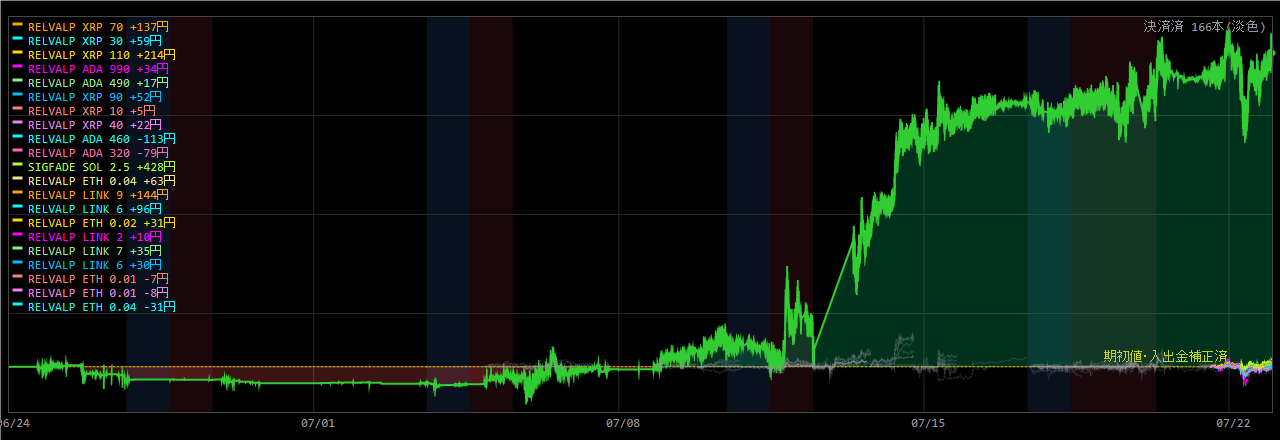
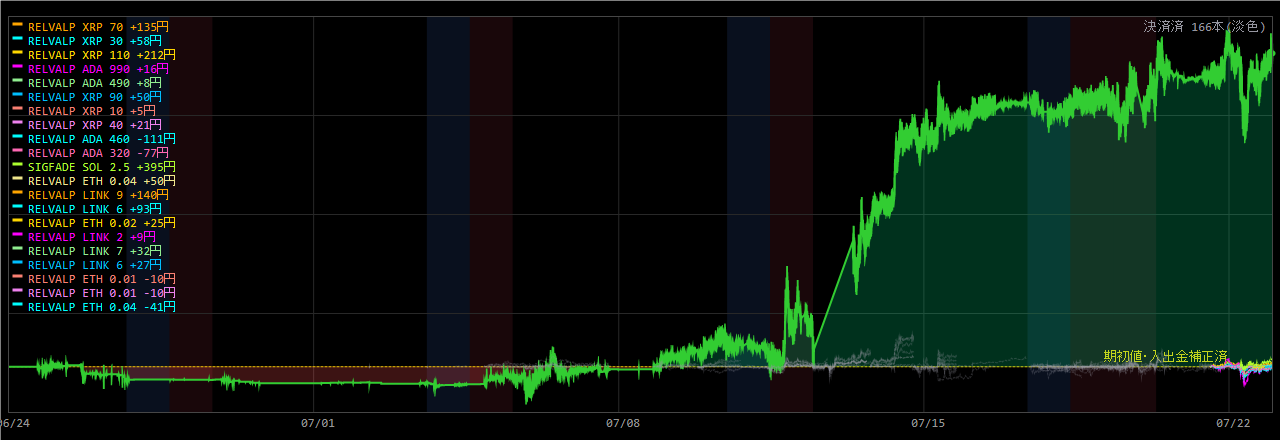
Coin100S 運用状況更新 07-23 17:11

diff --git a/coin100s-795hc4jfv8/index.html b/coin100s-795hc4jfv8/index.html
@@ -14,16 +14,16 @@ a{color:#60a5fa;text-decoration:none} a:hover{text-decoration:underline}
 .meta{color:#94a3b8;font-size:13px}</style>
 <script>setTimeout(function(){location.replace(location.pathname+"?t="+Date.now());},300000);</script></head><body>
 <h1>Coin100S ダッシュボード</h1>
-<p class="meta">スナップショット: 2026-07-23 17:05:07(自動リロード・最新化)</p>
+<p class="meta">スナップショット: 2026-07-23 17:10:37(自動リロード・最新化)</p>
 <div class="cards">
 <div class="card">建玉数<div class="v">21</div></div>
 <div class="card">本日損益<div class="v neg">-88円</div></div>
-<div class="card">評価損益<div class="v pos">+1,040円</div></div>
+<div class="card">評価損益<div class="v pos">+1,011円</div></div>
 </div>
 <h2>現在の建玉</h2>
-<table><tr><th>銘柄</th><th>側</th><th>数量</th><th>建値</th><th>含損益</th><th>レッグ</th></tr><tr><td>ADA_JPY</td><td>SELL</td><td>320</td><td>@28</td><td>-83円</td><td>RELVALP_SL700</td></tr><tr><td>ADA_JPY</td><td>SELL</td><td>460</td><td>@28</td><td>-119円</td><td>RELVALP_SELL</td></tr><tr><td>ADA_JPY</td><td>SELL</td><td>490</td><td>@28</td><td>0円</td><td>RELVALP_SL700</td></tr><tr><td>ADA_JPY</td><td>SELL</td><td>990</td><td>@28</td><td>+1円</td><td>RELVALP_SELL</td></tr><tr><td>ETH_JPY</td><td>SELL</td><td>0.04</td><td>@312,191</td><td>-33円</td><td>RELVALP_SELL</td></tr><tr><td>ETH_JPY</td><td>SELL</td><td>0.01</td><td>@312,191</td><td>-9円</td><td>RELVALP_SELL</td></tr><tr><td>ETH_JPY</td><td>SELL</td><td>0.01</td><td>@312,216</td><td>-8円</td><td>RELVALP_SELL</td></tr><tr><td>ETH_JPY</td><td>SELL</td><td>0.02</td><td>@314,458</td><td>+28円</td><td>RELVALP_SL700</td></tr><tr><td>ETH_JPY</td><td>SELL</td><td>0.04</td><td>@314,458</td><td>+57円</td><td>RELVALP_SELL</td></tr><tr><td>LINK_JPY</td><td>SELL</td><td>6</td><td>@1,398</td><td>+36円</td><td>RELVALP_SL700</td></tr><tr><td>LINK_JPY</td><td>SELL</td><td>7</td><td>@1,398</td><td>+42円</td><td>RELVALP_SELL</td></tr><tr><td>LINK_JPY</td><td>SELL</td><td>2</td><td>@1,398</td><td>+12円</td><td>RELVALP_SELL</td></tr><tr><td>LINK_JPY</td><td>SELL</td><td>6</td><td>@1,409</td><td>+102円</td><td>RELVALP_SL700</td></tr><tr><td>LINK_JPY</td><td>SELL</td><td>9</td><td>@1,409</td><td>+153円</td><td>RELVALP_SELL</td></tr><tr><td>SOL_JPY</td><td>SELL</td><td>2.5</td><td>@12,763</td><td>+400円</td><td>SIGFADE_SOL</td></tr><tr><td>XRP_JPY</td><td>SELL</td><td>40</td><td>@186</td><td>+20円</td><td>RELVALP_SL700</td></tr><tr><td>XRP_JPY</td><td>SELL</td><td>10</td><td>@186</td><td>+5円</td><td>RELVALP_SELL</td></tr><tr><td>XRP_JPY</td><td>SELL</td><td>90</td><td>@186</td><td>+48円</td><td>RELVALP_SELL</td></tr><tr><td>XRP_JPY</td><td>SELL</td><td>110</td><td>@187</td><td>+209円</td><td>RELVALP_SELL</td></tr><tr><td>XRP_JPY</td><td>SELL</td><td>30</td><td>@187</td><td>+57円</td><td>RELVALP_SELL</td></tr><tr><td>XRP_JPY</td><td>SELL</td><td>70</td><td>@187</td><td>+134円</td><td>RELVALP_SL700</td></tr></table>
+<table><tr><th>銘柄</th><th>側</th><th>数量</th><th>建値</th><th>含損益</th><th>レッグ</th></tr><tr><td>ADA_JPY</td><td>SELL</td><td>320</td><td>@28</td><td>-84円</td><td>RELVALP_SL700</td></tr><tr><td>ADA_JPY</td><td>SELL</td><td>460</td><td>@28</td><td>-121円</td><td>RELVALP_SELL</td></tr><tr><td>ADA_JPY</td><td>SELL</td><td>490</td><td>@28</td><td>-1円</td><td>RELVALP_SL700</td></tr><tr><td>ADA_JPY</td><td>SELL</td><td>990</td><td>@28</td><td>-2円</td><td>RELVALP_SELL</td></tr><tr><td>ETH_JPY</td><td>SELL</td><td>0.04</td><td>@312,191</td><td>-45円</td><td>RELVALP_SELL</td></tr><tr><td>ETH_JPY</td><td>SELL</td><td>0.01</td><td>@312,191</td><td>-12円</td><td>RELVALP_SELL</td></tr><tr><td>ETH_JPY</td><td>SELL</td><td>0.01</td><td>@312,216</td><td>-11円</td><td>RELVALP_SELL</td></tr><tr><td>ETH_JPY</td><td>SELL</td><td>0.02</td><td>@314,458</td><td>+23円</td><td>RELVALP_SL700</td></tr><tr><td>ETH_JPY</td><td>SELL</td><td>0.04</td><td>@314,458</td><td>+46円</td><td>RELVALP_SELL</td></tr><tr><td>LINK_JPY</td><td>SELL</td><td>6</td><td>@1,398</td><td>+36円</td><td>RELVALP_SL700</td></tr><tr><td>LINK_JPY</td><td>SELL</td><td>7</td><td>@1,398</td><td>+42円</td><td>RELVALP_SELL</td></tr><tr><td>LINK_JPY</td><td>SELL</td><td>2</td><td>@1,398</td><td>+12円</td><td>RELVALP_SELL</td></tr><tr><td>LINK_JPY</td><td>SELL</td><td>6</td><td>@1,409</td><td>+102円</td><td>RELVALP_SL700</td></tr><tr><td>LINK_JPY</td><td>SELL</td><td>9</td><td>@1,409</td><td>+153円</td><td>RELVALP_SELL</td></tr><tr><td>SOL_JPY</td><td>SELL</td><td>2.5</td><td>@12,763</td><td>+400円</td><td>SIGFADE_SOL</td></tr><tr><td>XRP_JPY</td><td>SELL</td><td>40</td><td>@186</td><td>+20円</td><td>RELVALP_SL700</td></tr><tr><td>XRP_JPY</td><td>SELL</td><td>10</td><td>@186</td><td>+5円</td><td>RELVALP_SELL</td></tr><tr><td>XRP_JPY</td><td>SELL</td><td>90</td><td>@186</td><td>+48円</td><td>RELVALP_SELL</td></tr><tr><td>XRP_JPY</td><td>SELL</td><td>110</td><td>@187</td><td>+209円</td><td>RELVALP_SELL</td></tr><tr><td>XRP_JPY</td><td>SELL</td><td>30</td><td>@187</td><td>+57円</td><td>RELVALP_SELL</td></tr><tr><td>XRP_JPY</td><td>SELL</td><td>70</td><td>@187</td><td>+134円</td><td>RELVALP_SL700</td></tr></table>
 <p><a href="status.html"><b>▶ 運用状況の詳細(チャート・本日の取引・レジーム)</b></a></p>
 <h2>日報一覧</h2>
 <table><tr><th>取引日</th><th>実現損益</th><th>総括</th></tr><tr><td><a href='reports/20260722_Coin100S日報.html'>2026-07-22</a></td><td class="pos">+0円</td><td class='meta'>実取引: 新規10件/決済5件、実現損益 +0円。シグナル却下1件（最多: BW10M3_5M／トレンド方向ゲート(N分傾き下と不一致=逆張り方向のfade禁止)）。⚠警告/エラー 9件（要確認）。</td></tr><tr><td><a href='reports/20260721_Coin100S日報.html'>2026-07-21</a></td><td class="pos">+0円</td><td class='meta'>実取引: 新規4件/決済13件、実現損益 +0円。⚠警告/エラー 13件（要確認）。</td></tr><tr><td><a href='reports/20260720_Coin100S日報.html'>2026-07-20</a></td><td class="pos">+0円</td><td class='meta'>実取引: 新規8件/決済21件、実現損益 +0円。シグナル却下8件（最多: BW10M3_5M／トレンド方向ゲート(N分傾き上と不一致=逆張り方向のfade禁止)）。⚠警告/エラー 13件（要確認）。</td></tr><tr><td><a href='reports/20260719_Coin100S日報.html'>2026-07-19</a></td><td class="pos">+0円</td><td class='meta'>実取引: 新規10件/決済7件、実現損益 +0円。⚠警告/エラー 3件（要確認）。</td></tr><tr><td><a href='reports/20260718_Coin100S日報.html'>2026-07-18</a></td><td class="pos">+0円</td><td class='meta'>実取引: 新規9件/決済8件、実現損益 +0円。警告/孤児/エラーなし＝健全。</td></tr><tr><td><a href='reports/20260717_Coin100S日報.html'>2026-07-17</a></td><td class="pos">+0円</td><td class='meta'>実取引: 新規3件/決済2件、実現損益 +0円。シグナル却下1件（最多: BW10M3_5M／トレンド方向ゲート(N分傾き下と不一致=逆張り方向のfade禁止)）。⚠警告/エラー 2件（要確認）。</td></tr><tr><td><a href='reports/20260716_Coin100S日報.html'>2026-07-16</a></td><td class="pos">+0円</td><td class='meta'>実取引: 新規0件/決済5件、実現損益 +0円。⚠警告/エラー 7件（要確認）。</td></tr><tr><td><a href='reports/20260715_Coin100S日報.html'>2026-07-15</a></td><td class="pos">+0円</td><td class='meta'>実取引: 新規6件/決済5件、実現損益 +0円。シグナル却下6件（最多: BW10M3_5M／トレンド方向ゲート(N分傾き上と不一致=逆張り方向のfade禁止)）。⚠警告/エラー 7件（要確認）。</td></tr><tr><td><a href='reports/20260714_Coin100S日報.html'>2026-07-14</a></td><td class="pos">+0円</td><td class='meta'>実取引: 新規6件/決済18件、実現損益 +0円。シグナル却下5件（最多: BW10M3_5M／トレンド方向ゲート(N分傾き上と不一致=逆張り方向のfade禁止)）。⚠警告/エラー 9件（要確認）。</td></tr><tr><td><a href='reports/20260713_Coin100S日報.html'>2026-07-13</a></td><td class="pos">+0円</td><td class='meta'>実取引: 新規5件/決済8件、実現損益 +0円。シグナル却下1件（最多: BW10M3_5M／トレンド方向ゲート(N分傾き上と不一致=逆張り方向のfade禁止)）。警告/孤児/エラーなし＝健全。</td></tr><tr><td><a href='reports/20260712_Coin100S日報.html'>2026-07-12</a></td><td class="pos">+0円</td><td class='meta'>実取引: 新規14件/決済6件、実現損益 +0円。シグナル却下5件（最多: BW10M3_5M／トレンド方向ゲート(N分傾き下と不一致=逆張り方向のfade禁止)）。⚠警告/エラー 2件（要確認）。</td></tr><tr><td><a href='reports/20260711_Coin100S日報.html'>2026-07-11</a></td><td class="pos">+0円</td><td class='meta'>実取引: 新規7件/決済6件、実現損益 +0円。⚠警告/エラー 52件（要確認）。</td></tr><tr><td><a href='reports/20260710_Coin100S日報.html'>2026-07-10</a></td><td class="pos">+0円</td><td class='meta'>実取引: 新規7件/決済6件、実現損益 +0円。シグナル却下6件（最多: BW10M3_5M／トレンド方向ゲート(N分傾き上と不一致=逆張り方向のfade禁止)）。警告/孤児/エラーなし＝健全。</td></tr><tr><td><a href='reports/20260709_Coin100S日報.html'>2026-07-09</a></td><td class="pos">+0円</td><td class='meta'>実取引: 新規8件/決済3件、実現損益 +0円。シグナル却下5件（最多: SD120M_5M／トレンド方向ゲート(N分傾き上と不一致=逆張り方向のfade禁止)）。警告/孤児/エラーなし＝健全。</td></tr><tr><td><a href='reports/20260708_Coin100S日報.html'>2026-07-08</a></td><td class="pos">+0円</td><td class='meta'>実取引: 新規2件/決済4件、実現損益 +0円。シグナル却下4件（最多: SD120M_5M／トレンド方向ゲート(N分傾き下と不一致=逆張り方向のfade禁止)）。警告/孤児/エラーなし＝健全。</td></tr><tr><td><a href='reports/20260707_Coin100S日報.html'>2026-07-07</a></td><td class="pos">+0円</td><td class='meta'>実取引: 新規8件/決済6件、実現損益 +0円。シグナル却下4件（最多: SD120M_5M／トレンド方向ゲート(N分傾き上と不一致=逆張り方向のfade禁止)）。⚠警告/エラー 258件（要確認）。</td></tr><tr><td><a href='reports/20260706_Coin100S日報.html'>2026-07-06</a></td><td class="pos">+0円</td><td class='meta'>実取引: 新規9件/決済6件、実現損益 +0円。シグナル却下9件（最多: SD120M_5M／トレンド方向ゲート(N分傾き上と不一致=逆張り方向のfade禁止)）。⚠警告/エラー 150件（要確認）。</td></tr><tr><td><a href='reports/20260705_Coin100S日報.html'>2026-07-05</a></td><td class="pos">+0円</td><td class='meta'>実取引: 新規8件/決済3件、実現損益 +0円。⚠警告/エラー 2件（要確認）。</td></tr><tr><td><a href='reports/20260704_Coin100S日報.html'>2026-07-04</a></td><td class="pos">+0円</td><td class='meta'>実取引: 新規1件/決済2件、実現損益 +0円。⚠警告/エラー 2件（要確認）。</td></tr><tr><td><a href='reports/20260703_Coin100S日報.html'>2026-07-03</a></td><td class="pos">+0円</td><td class='meta'>実取引: 新規5件/決済4件、実現損益 +0円。⚠警告/エラー 15件（要確認）。</td></tr><tr><td><a href='reports/20260702_Coin100S日報.html'>2026-07-02</a></td><td class="pos">+0円</td><td class='meta'>実取引: 新規7件/決済5件、実現損益 +0円。シグナル却下17件（最多: SD120M_5M／トレンド方向ゲート(N分傾き上と不一致=逆張り方向のfade禁止)）。⚠警告/エラー 26件（要確認）。</td></tr><tr><td><a href='reports/20260701_Coin100S日報.html'>2026-07-01</a></td><td class="pos">+0円</td><td class='meta'>実取引: 新規14件/決済8件、実現損益 +0円。シグナル却下14件（最多: SD120M_5M／ボラ軸ゲート(SDN%&amp;gt;N%=高ボラ/荒れレンジ)）。⚠警告/エラー 2件（要確認）。</td></tr><tr><td><a href='reports/20260630_Coin100S日報.html'>2026-06-30</a></td><td class="pos">+0円</td><td class='meta'>実取引: 新規0件/決済1件、実現損益 +0円。シグナル却下29件（最多: 微5M／当日枠N）。警告/孤児/エラーなし＝健全。</td></tr></table>
-<hr><p class="meta">更新: 2026-07-23 17:05:07 / 自動生成: tools/web_publish.py(§580)</p>
+<hr><p class="meta">更新: 2026-07-23 17:11:06 / 自動生成: tools/web_publish.py(§580)</p>
 </body></html>

diff --git a/coin100s-795hc4jfv8/status.html b/coin100s-795hc4jfv8/status.html
@@ -14,22 +14,22 @@ a{color:#60a5fa;text-decoration:none} a:hover{text-decoration:underline}
 .meta{color:#94a3b8;font-size:13px}</style>
 <script>setTimeout(function(){location.replace(location.pathname+"?t="+Date.now());},300000);</script></head><body>
 <h1>Coin100S 運用状況</h1>
-<p class="meta">スナップショット: 2026-07-23 17:04:37 / ページ生成: 2026-07-23 17:05:07(自動リロード・最新化) / <a href="index.html">目次へ</a></p>
+<p class="meta">スナップショット: 2026-07-23 17:10:37 / ページ生成: 2026-07-23 17:11:06(自動リロード・最新化) / <a href="index.html">目次へ</a></p>
 <div class="cards">
 <div class="card">建玉数<div class="v">21</div></div>
 <div class="card">本日損益<div class="v neg">-88円</div></div>
-<div class="card">評価損益<div class="v pos">+1,084円</div></div>
+<div class="card">評価損益<div class="v pos">+1,011円</div></div>
 </div>
 <h2>資産推移(直近30日)</h2>
-<img src="status_equity.png?t=1705" alt="equity">
+<img src="status_equity.png?t=1711" alt="equity">
 <h2>取引チャート(直近24h)</h2>
-<img src="status_chart.png?t=1705" alt="chart">
+<img src="status_chart.png?t=1711" alt="chart">
 <h2>建玉一覧</h2>
-<table><tr><th>銘柄</th><th>側</th><th>数量</th><th>建値</th><th>含損益</th><th>レッグ</th></tr><tr><td>ADA_JPY</td><td>SELL</td><td>320</td><td>@28</td><td>-83円</td><td>RELVALP_SL700</td></tr><tr><td>ADA_JPY</td><td>SELL</td><td>460</td><td>@28</td><td>-119円</td><td>RELVALP_SELL</td></tr><tr><td>ADA_JPY</td><td>SELL</td><td>490</td><td>@28</td><td>0円</td><td>RELVALP_SL700</td></tr><tr><td>ADA_JPY</td><td>SELL</td><td>990</td><td>@28</td><td>+1円</td><td>RELVALP_SELL</td></tr><tr><td>ETH_JPY</td><td>SELL</td><td>0.04</td><td>@312,191</td><td>-37円</td><td>RELVALP_SELL</td></tr><tr><td>ETH_JPY</td><td>SELL</td><td>0.01</td><td>@312,191</td><td>-10円</td><td>RELVALP_SELL</td></tr><tr><td>ETH_JPY</td><td>SELL</td><td>0.01</td><td>@312,216</td><td>-9円</td><td>RELVALP_SELL</td></tr><tr><td>ETH_JPY</td><td>SELL</td><td>0.02</td><td>@314,458</td><td>+27円</td><td>RELVALP_SL700</td></tr><tr><td>ETH_JPY</td><td>SELL</td><td>0.04</td><td>@314,458</td><td>+54円</td><td>RELVALP_SELL</td></tr><tr><td>LINK_JPY</td><td>SELL</td><td>6</td><td>@1,398</td><td>+36円</td><td>RELVALP_SL700</td></tr><tr><td>LINK_JPY</td><td>SELL</td><td>7</td><td>@1,398</td><td>+42円</td><td>RELVALP_SELL</td></tr><tr><td>LINK_JPY</td><td>SELL</td><td>2</td><td>@1,398</td><td>+12円</td><td>RELVALP_SELL</td></tr><tr><td>LINK_JPY</td><td>SELL</td><td>6</td><td>@1,409</td><td>+102円</td><td>RELVALP_SL700</td></tr><tr><td>LINK_JPY</td><td>SELL</td><td>9</td><td>@1,409</td><td>+153円</td><td>RELVALP_SELL</td></tr><tr><td>SOL_JPY</td><td>SELL</td><td>2.5</td><td>@12,763</td><td>+400円</td><td>SIGFADE_SOL</td></tr><tr><td>XRP_JPY</td><td>SELL</td><td>40</td><td>@186</td><td>+25円</td><td>RELVALP_SL700</td></tr><tr><td>XRP_JPY</td><td>SELL</td><td>10</td><td>@186</td><td>+6円</td><td>RELVALP_SELL</td></tr><tr><td>XRP_JPY</td><td>SELL</td><td>90</td><td>@186</td><td>+59円</td><td>RELVALP_SELL</td></tr><tr><td>XRP_JPY</td><td>SELL</td><td>110</td><td>@187</td><td>+222円</td><td>RELVALP_SELL</td></tr><tr><td>XRP_JPY</td><td>SELL</td><td>30</td><td>@187</td><td>+61円</td><td>RELVALP_SELL</td></tr><tr><td>XRP_JPY</td><td>SELL</td><td>70</td><td>@187</td><td>+142円</td><td>RELVALP_SL700</td></tr></table>
+<table><tr><th>銘柄</th><th>側</th><th>数量</th><th>建値</th><th>含損益</th><th>レッグ</th></tr><tr><td>ADA_JPY</td><td>SELL</td><td>320</td><td>@28</td><td>-84円</td><td>RELVALP_SL700</td></tr><tr><td>ADA_JPY</td><td>SELL</td><td>460</td><td>@28</td><td>-121円</td><td>RELVALP_SELL</td></tr><tr><td>ADA_JPY</td><td>SELL</td><td>490</td><td>@28</td><td>-1円</td><td>RELVALP_SL700</td></tr><tr><td>ADA_JPY</td><td>SELL</td><td>990</td><td>@28</td><td>-2円</td><td>RELVALP_SELL</td></tr><tr><td>ETH_JPY</td><td>SELL</td><td>0.04</td><td>@312,191</td><td>-45円</td><td>RELVALP_SELL</td></tr><tr><td>ETH_JPY</td><td>SELL</td><td>0.01</td><td>@312,191</td><td>-12円</td><td>RELVALP_SELL</td></tr><tr><td>ETH_JPY</td><td>SELL</td><td>0.01</td><td>@312,216</td><td>-11円</td><td>RELVALP_SELL</td></tr><tr><td>ETH_JPY</td><td>SELL</td><td>0.02</td><td>@314,458</td><td>+23円</td><td>RELVALP_SL700</td></tr><tr><td>ETH_JPY</td><td>SELL</td><td>0.04</td><td>@314,458</td><td>+46円</td><td>RELVALP_SELL</td></tr><tr><td>LINK_JPY</td><td>SELL</td><td>6</td><td>@1,398</td><td>+36円</td><td>RELVALP_SL700</td></tr><tr><td>LINK_JPY</td><td>SELL</td><td>7</td><td>@1,398</td><td>+42円</td><td>RELVALP_SELL</td></tr><tr><td>LINK_JPY</td><td>SELL</td><td>2</td><td>@1,398</td><td>+12円</td><td>RELVALP_SELL</td></tr><tr><td>LINK_JPY</td><td>SELL</td><td>6</td><td>@1,409</td><td>+102円</td><td>RELVALP_SL700</td></tr><tr><td>LINK_JPY</td><td>SELL</td><td>9</td><td>@1,409</td><td>+153円</td><td>RELVALP_SELL</td></tr><tr><td>SOL_JPY</td><td>SELL</td><td>2.5</td><td>@12,763</td><td>+400円</td><td>SIGFADE_SOL</td></tr><tr><td>XRP_JPY</td><td>SELL</td><td>40</td><td>@186</td><td>+20円</td><td>RELVALP_SL700</td></tr><tr><td>XRP_JPY</td><td>SELL</td><td>10</td><td>@186</td><td>+5円</td><td>RELVALP_SELL</td></tr><tr><td>XRP_JPY</td><td>SELL</td><td>90</td><td>@186</td><td>+48円</td><td>RELVALP_SELL</td></tr><tr><td>XRP_JPY</td><td>SELL</td><td>110</td><td>@187</td><td>+209円</td><td>RELVALP_SELL</td></tr><tr><td>XRP_JPY</td><td>SELL</td><td>30</td><td>@187</td><td>+57円</td><td>RELVALP_SELL</td></tr><tr><td>XRP_JPY</td><td>SELL</td><td>70</td><td>@187</td><td>+134円</td><td>RELVALP_SL700</td></tr></table>
 <h2>実現決済履歴(直近15件・OrderId単位)</h2>
 <table><tr><th>決済時刻</th><th>レッグ</th><th>銘柄</th><th>実現損益</th></tr><tr><td>07-23 06:08</td><td>RELVALP_SELL</td><td>SOL</td><td class="neg">-67円</td></tr><tr><td>07-23 06:08</td><td>RELVALP_SL700</td><td>SOL</td><td class="neg">-21円</td></tr><tr><td>07-23 01:34</td><td>SIGFADE_BTC</td><td>BTC</td><td class="pos">+27円</td></tr><tr><td>07-22 09:08</td><td>SIGFADE_SOL</td><td>SOL</td><td class="pos">+220円</td></tr><tr><td>07-22 09:08</td><td>SIGFADE_ETH</td><td>ETH</td><td class="pos">+243円</td></tr><tr><td>07-21 08:07</td><td>TENKI5D_REV_DOGE</td><td>DOGE</td><td class="neg">-210円</td></tr><tr><td>07-21 06:11</td><td>TENKI5D_REV_ETH</td><td>ETH</td><td class="pos">+622円</td></tr><tr><td>07-21 06:11</td><td>TENKI5D_REV_ETH</td><td>ETH</td><td class="pos">+124円</td></tr><tr><td>07-21 06:09</td><td>TENKI5D_REV_SOL</td><td>SOL</td><td class="pos">+287円</td></tr><tr><td>07-21 06:09</td><td>TENKI5D_REV_SOL</td><td>SOL</td><td class="pos">+454円</td></tr><tr><td>07-21 06:09</td><td>TENKI5D_REV_BTC</td><td>BTC</td><td class="pos">+649円</td></tr><tr><td>07-21 06:08</td><td>RELVALP_SELL</td><td>LTC</td><td class="neg">-267円</td></tr><tr><td>07-21 06:08</td><td>RELVALP_SL700</td><td>LTC</td><td class="neg">-90円</td></tr><tr><td>07-20 23:29</td><td>BW10M3_5M</td><td>BTC</td><td class="neg">-45円</td></tr><tr><td>07-20 10:58</td><td>BW10M3_5M</td><td>BTC</td><td class="pos">+7円</td></tr></table>
 <!-- §799c 「本取引日の実取引(6:00起点)」テーブルは公開ページから削除(ユーザー指示2026-07-15・数量/指値まで晒す情報漏れ)。建玉/実現損益は許可・実発注の生取引明細は非公開 -->
 <h2>現在レジーム(3軸・§570c)</h2>
-<ul><li>アルト対BTC 5日: <b>+31bps</b>(アルト優越=RELVAL逆風)</li><li>BTC ER240m: <b>0.027</b>(閾値0.25→レンジ(fade順風/BWTRD逆風))</li><li>BTC実現ボラ240m: <b>3.62</b> bps/分</li></ul>
+<ul><li>アルト対BTC 5日: <b>+31bps</b>(アルト優越=RELVAL逆風)</li><li>BTC ER240m: <b>0.001</b>(閾値0.25→レンジ(fade順風/BWTRD逆風))</li><li>BTC実現ボラ240m: <b>3.56</b> bps/分</li></ul>
 <hr><p class="meta">自動生成: tools/web_publish.py(§580・読み取り専用)。売買判断はアプリ本体。</p>
 </body></html>
